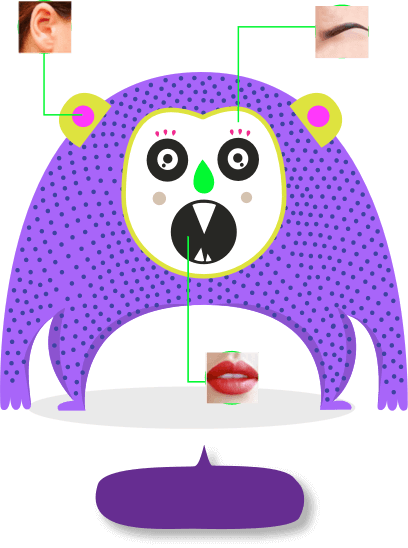
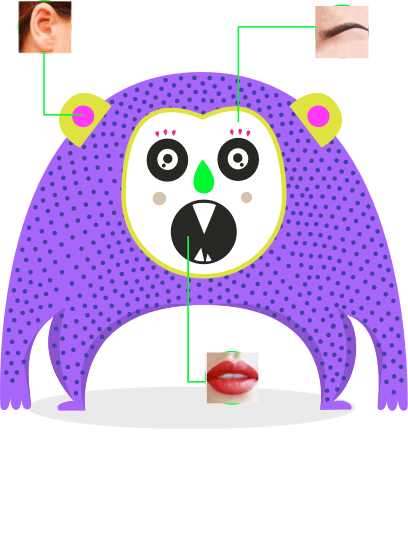
Content Zone Modifications

Changed region(s): [[0.2353, 0.8066, 0.7941, 0.9927]]

diff --git a/style.css b/style.css
@@ -3506,14 +3506,36 @@ body.body_clase.view-mode #actividad .oxfl-content-zone-wrapper {
     cursor: pointer; }
     body.body_clase.view-mode #actividad .oxfl-content-zone-wrapper .oxfl-cz .bck-title p {
       position: absolute;
-      bottom: 12px;
+      bottom: 0;
       left: 50%;
       margin-left: -5px;
       transform: translate(-50%, 0);
+      display: inline-flex;
+      vertical-align: middle;
+      justify-content: center;
+      flex-direction: column;
       font-family: "Quicksand", sans-serif;
+      font-size: 18px;
       font-weight: bold;
-      font-size: 16px;
-      color: #ffffff; }
+      text-align: center;
+      color: #ffffff;
+      background: #ff931e;
+      padding: 5px 10px;
+      border-radius: 40px;
+      min-width: 105px; }
+      body.body_clase.view-mode #actividad .oxfl-content-zone-wrapper .oxfl-cz .bck-title p::before {
+        content: '';
+        display: block;
+        width: 0;
+        height: 0;
+        border-left: 10px solid transparent;
+        border-right: 10px solid transparent;
+        border-top: 10px solid #ff931e;
+        position: absolute;
+        top: 0;
+        left: 50%;
+        transform: translate(-50%, 0) rotate(180deg);
+        transform-origin: 50% 0; }
   body.body_clase.view-mode #actividad .oxfl-content-zone-wrapper .oxfl-cz-video .bck-title {
     background-image: url(img/monster-9.png);
     width: 210px;
@@ -3526,7 +3548,33 @@ body.body_clase.view-mode #actividad .oxfl-content-zone-wrapper {
     margin-left: -50px;
     background-image: url(img/monster-10.png); }
     body.body_clase.view-mode #actividad .oxfl-content-zone-wrapper .oxfl-cz-infographic .bck-title p {
-      bottom: 14px; }
+      bottom: 4px;
+      display: inline-flex;
+      vertical-align: middle;
+      justify-content: center;
+      flex-direction: column;
+      font-family: "Quicksand", sans-serif;
+      font-size: 18px;
+      font-weight: bold;
+      text-align: center;
+      color: #ffffff;
+      background: #662d91;
+      padding: 5px 10px;
+      border-radius: 40px;
+      min-width: 105px; }
+      body.body_clase.view-mode #actividad .oxfl-content-zone-wrapper .oxfl-cz-infographic .bck-title p::before {
+        content: '';
+        display: block;
+        width: 0;
+        height: 0;
+        border-left: 10px solid transparent;
+        border-right: 10px solid transparent;
+        border-top: 10px solid #662d91;
+        position: absolute;
+        top: 0;
+        left: 50%;
+        transform: translate(-50%, 0) rotate(180deg);
+        transform-origin: 50% 0; }
   body.body_clase.view-mode #actividad .oxfl-content-zone-wrapper .oxfl-cz-infographic .oxfl-cz-content {
     text-align: center; }
   body.body_clase.view-mode #actividad .oxfl-content-zone-wrapper .oxfl-cz-text .bck-title {
@@ -3534,7 +3582,33 @@ body.body_clase.view-mode #actividad .oxfl-content-zone-wrapper {
     background-image: url(img/monster-11.png);
     margin-left: 160px; }
     body.body_clase.view-mode #actividad .oxfl-content-zone-wrapper .oxfl-cz-text .bck-title p {
-      margin-left: 0; }
+      margin-left: 0;
+      display: inline-flex;
+      vertical-align: middle;
+      justify-content: center;
+      flex-direction: column;
+      font-family: "Quicksand", sans-serif;
+      font-size: 18px;
+      font-weight: bold;
+      text-align: center;
+      color: #ffffff;
+      background: #22b573;
+      padding: 5px 10px;
+      border-radius: 40px;
+      min-width: 105px; }
+      body.body_clase.view-mode #actividad .oxfl-content-zone-wrapper .oxfl-cz-text .bck-title p::before {
+        content: '';
+        display: block;
+        width: 0;
+        height: 0;
+        border-left: 10px solid transparent;
+        border-right: 10px solid transparent;
+        border-top: 10px solid #22b573;
+        position: absolute;
+        top: 0;
+        left: 50%;
+        transform: translate(-50%, 0) rotate(180deg);
+        transform-origin: 50% 0; }
   body.body_clase.view-mode #actividad .oxfl-content-zone-wrapper .oxfl-cz-text .oxfl-cz-content {
     padding: 0 100px; }
 body.body_clase.view-mode.oxfl-content-zone-on .navbar-bottom {

diff --git a/scss/pages/_activities_content_zone.scss b/scss/pages/_activities_content_zone.scss
@@ -7,13 +7,7 @@ body.body_clase.view-mode {
 
   #actividad {
     .oxfl-content-zone-wrapper {
-      //overflow: hidden;
       overflow: auto;
-      //.item-container {
-      //  padding: 0;
-      //  max-width: 100%;
-      //  margin: 0;
-      //}
       .oxfl-content-zone-background {
         display: block;
         position: absolute;
@@ -207,15 +201,11 @@ body.body_clase.view-mode {
           cursor: pointer;
           p {
             position: absolute;
-            bottom: 12px;
+            bottom: 0;
             left: 50%;
             margin-left: -5px;
             transform: translate(-50%,0);
-            font-family: $font_family_1;
-            font-weight: bold;
-            //@include font-size(1.6);
-            font-size: 16px;
-            color: $negative_color;
+            @include bubble3();
           }
         }
         &-video {
@@ -237,7 +227,8 @@ body.body_clase.view-mode {
             margin-left: -50px;
             background-image: url(img/monster-10.png);
             p {
-              bottom: 14px;
+              bottom: 4px;
+              @include bubble3($color_21);
             }
           }
           .oxfl-cz-content {
@@ -251,6 +242,7 @@ body.body_clase.view-mode {
             margin-left: 160px;
             p {
               margin-left: 0;
+              @include bubble3($color_19);
             }
           }
           .oxfl-cz-content {

diff --git a/scss/commons/_mixins.scss b/scss/commons/_mixins.scss
@@ -143,3 +143,34 @@
 		transform: rotate(-45deg);
 	}
 }
+
+
+@mixin bubble3($bgcolor: $color_6_mod) {
+	display: inline-flex;
+	vertical-align: middle;
+	justify-content: center;
+	flex-direction: column;
+	font-family: $font_family_1;
+	font-size: 18px;
+	font-weight: bold;
+	text-align: center;
+	color: $negative_color;
+	background: $bgcolor;
+	padding: 5px 10px;
+	border-radius: 40px;
+	min-width: 105px;
+	&::before {
+		content: '';
+		display: block;
+		width: 0;
+		height: 0;
+		border-left: 10px solid transparent;
+		border-right: 10px solid transparent;
+		border-top: 10px solid $bgcolor;
+		position: absolute;
+		top: 0;
+    left: 50%;
+    transform: translate(-50%, 0) rotate(180deg);
+    transform-origin: 50% 0;
+	}
+}

diff --git a/scss/commons/_config.scss b/scss/commons/_config.scss
@@ -39,6 +39,7 @@ $color_18: #f7931e;
 $color_19: #22b573;
 
 $color_20: #1b1464;
+$color_21: #662d91;
 
 
 $home_menu_background_color: $background_color;
